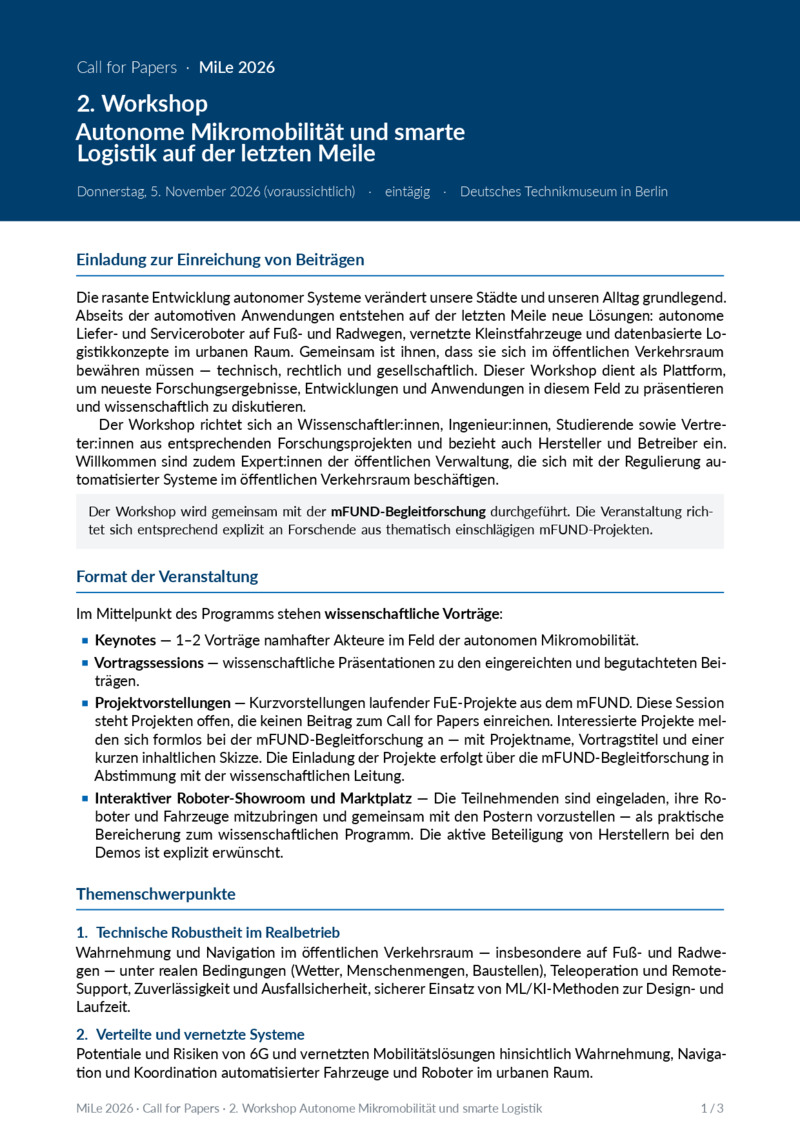
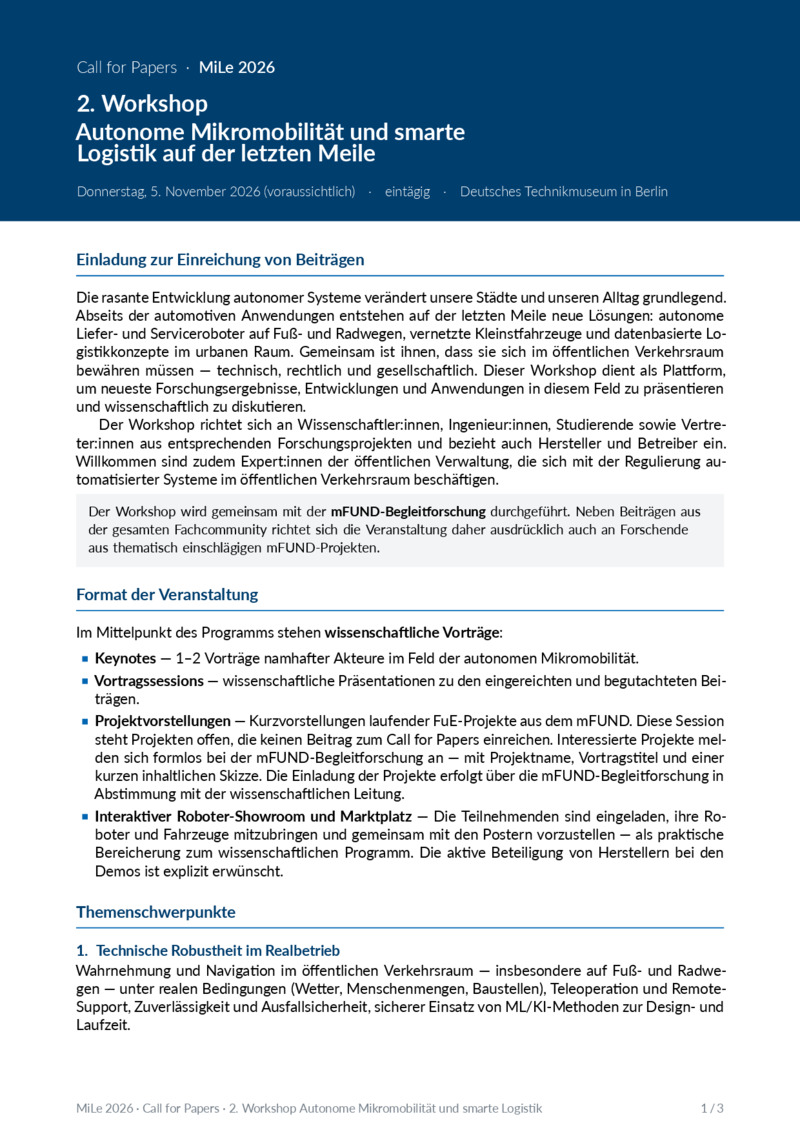
mFUND-Bezug praeziser formulieren
Die Veranstaltung richtet sich an die gesamte Fachcommunity; mFUND-
Projekte sind ausdruecklich mit angesprochen, aber nicht exklusiv.

Changed region(s): [[0.0938, 0.4329, 0.9062, 0.9585]]

diff --git a/index.html b/index.html
@@ -197,8 +197,8 @@
     </p>
     <div class="note">
       Der Workshop wird gemeinsam mit der <strong>mFUND-Begleitforschung</strong> durchgeführt.
-      Die Veranstaltung richtet sich entsprechend explizit an Forschende aus thematisch
-      einschlägigen mFUND-Projekten.
+      Neben Beiträgen aus der gesamten Fachcommunity richtet sich die Veranstaltung daher
+      ausdrücklich auch an Forschende aus thematisch einschlägigen mFUND-Projekten.
     </div>
   </div>
 </section>
